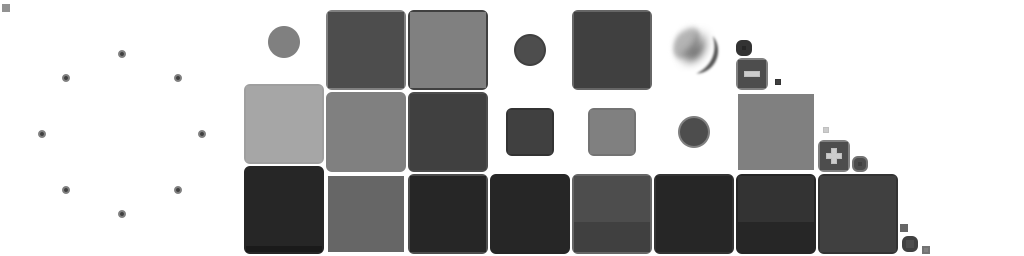
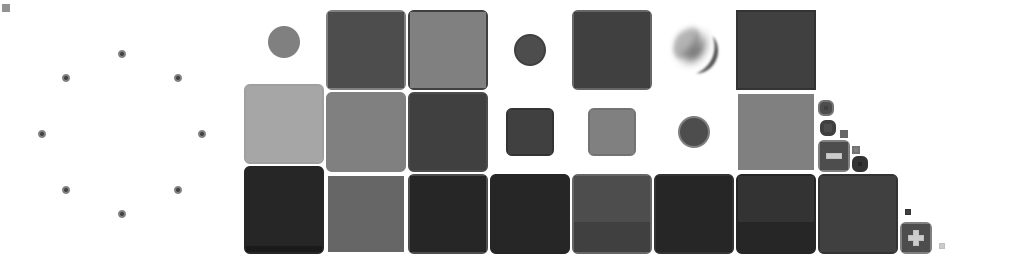
list restyled , or fail with corners rounding

Changed region(s): [[0.7188, 0.0312, 0.8438, 0.5312], [0.875, 0.8125, 0.9375, 1.0], [0.8125, 0.5625, 0.875, 0.6875]]

diff --git a/demo/core/src/main/kotlin/io/guthub/healingdrawing/demo/Demo.kt b/demo/core/src/main/kotlin/io/guthub/healingdrawing/demo/Demo.kt
@@ -14,8 +14,8 @@ import com.badlogic.gdx.scenes.scene2d.ui.*
 import com.badlogic.gdx.scenes.scene2d.ui.TextButton.TextButtonStyle
 import com.badlogic.gdx.scenes.scene2d.ui.List as UIList
 import com.badlogic.gdx.utils.Array as UIArray
-//import com.badlogic.gdx.scenes.scene2d.ui.Tree
-//import com.badlogic.gdx.scenes.scene2d.ui.Tree.Node
+import com.badlogic.gdx.scenes.scene2d.ui.Tree
+import com.badlogic.gdx.scenes.scene2d.ui.Tree.Node
 
 /** [com.badlogic.gdx.ApplicationListener] implementation shared by all platforms.  */
 class Demo : ApplicationAdapter() {
@@ -108,7 +108,7 @@ class Demo : ApplicationAdapter() {
 
 //        table!!.add(eng_label).expandX().expandY()//.fillX().fillY() //used in scroll
     
-//        val tree = Tree<Tree.Node,Label>(css)
+//        val tree = Tree<Label,Label,Label>(css)
         
         table!!.add(eng_button).expandX().expandY()//.fillX().fillY()
         table!!.add(selectbox).expandX()
